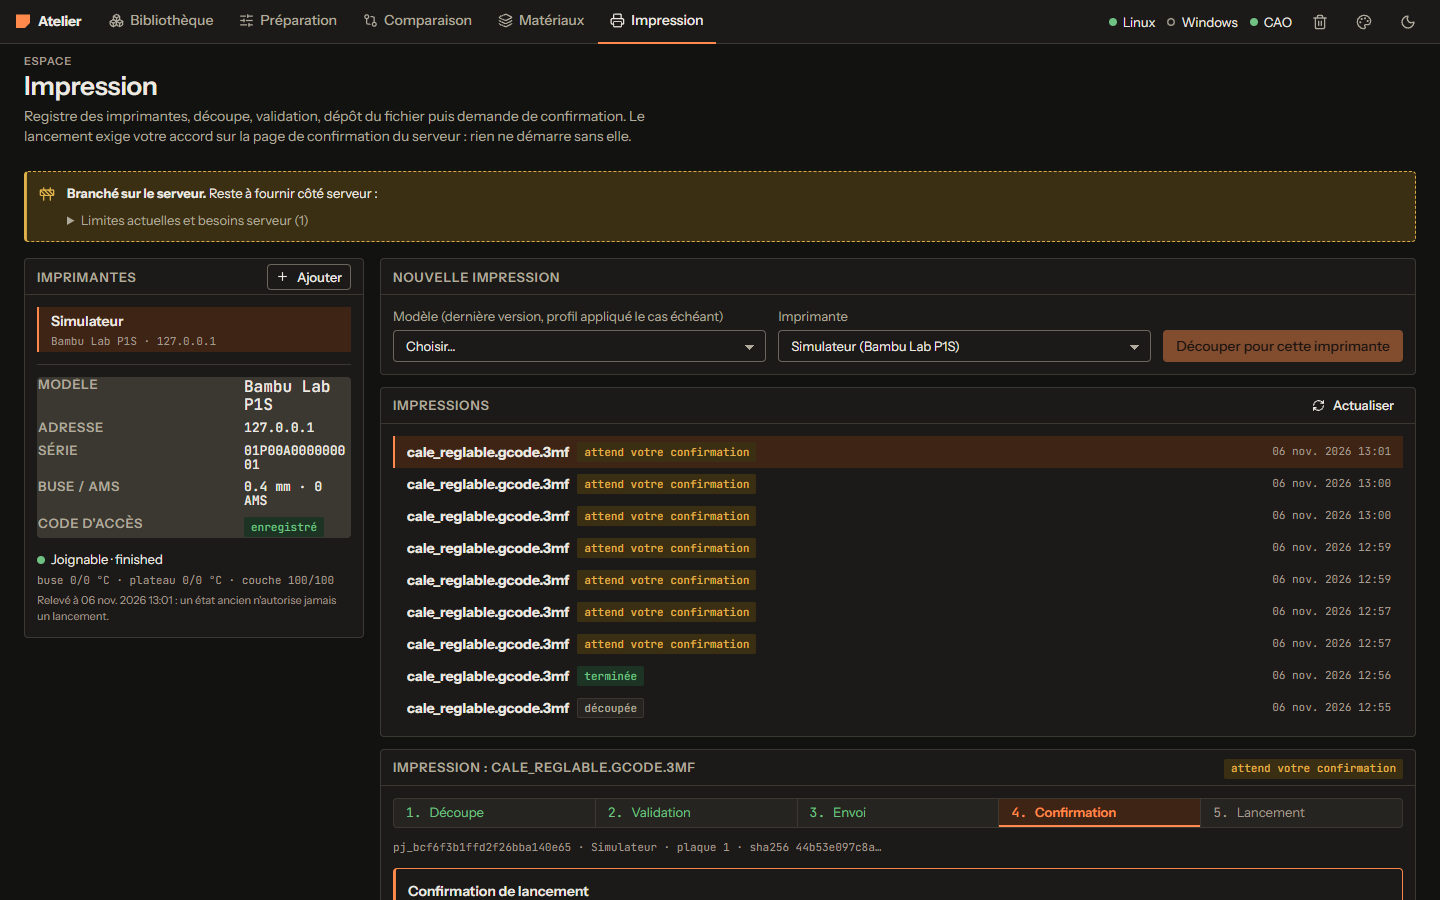
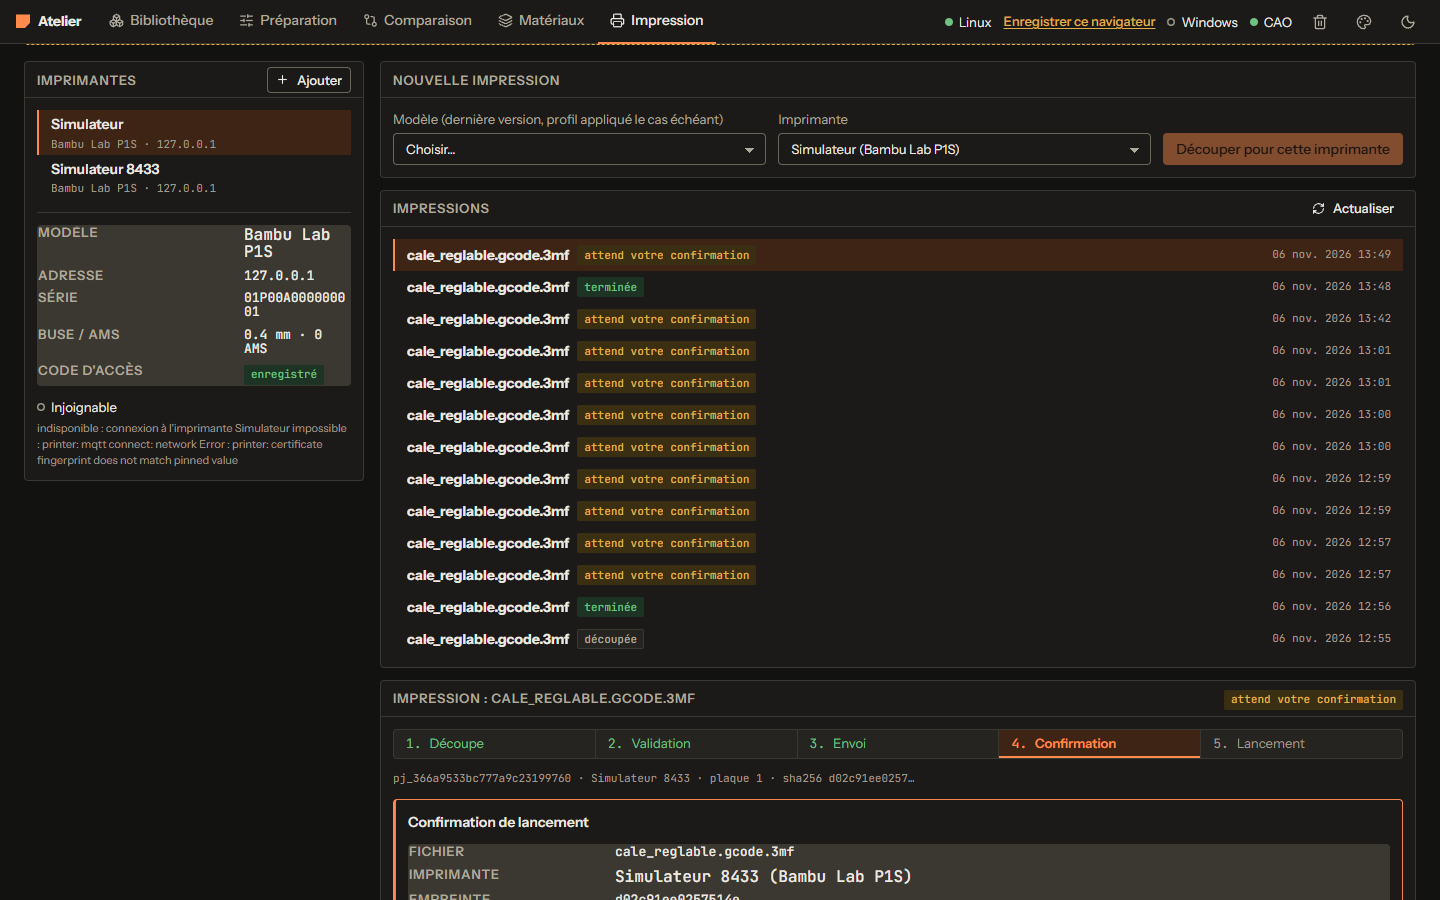
J3 : adaptation aux correctifs de securite (enrolement, epinglage cote serveur, stop_url)
Lien /enroll via GET /api/session, ajout d'imprimante sans empreinte, demande d'arret renvoyant
stop_url, e2e avec navigateur enregistre. Aucune approbation depuis l'interface ni la MCP App.

diff --git a/web/src/pages/Print.tsx b/web/src/pages/Print.tsx
@@ -2,8 +2,8 @@ import { useEffect, useMemo, useRef, useState } from 'react';
 import { ExternalLink, Plus, RefreshCw, ShieldCheck } from 'lucide-react';
 import { Button, EmptyState, Field, Input, List, Panel, Select, StatusDot, Tag, useToast } from '../components';
 import { api, assetUrl, describeError } from '../api/client';
-import { useAsync } from '../api/hooks';
-import type { ConfirmationView, FilamentAssignment, PrintJob, PrintState, PrinterView, StartOutput, UploadOutput, ValidationReport } from '../api/printTypes';
+import { useAsync, useConnection } from '../api/hooks';
+import type { CancelOutput, ConfirmationView, FilamentAssignment, PrintJob, PrintState, PrinterView, StartOutput, UploadOutput, ValidationReport } from '../api/printTypes';
 import { Async, Dialog, Notice, PendingBanner, fmtDate } from './common';
 import './print.css';
 
@@ -86,7 +86,7 @@ function PrinterCard({ p }: { p: PrinterView }) {
         <dt>Buse / AMS</dt><dd className="mono">{p.nozzle_mm} mm · {p.ams_units} AMS</dd>
         <dt>Code d'accès</dt><dd>{p.access_code_set ? <Tag tone="ok">enregistré</Tag> : <Tag tone="warn">à saisir</Tag>}</dd>
       </dl>
-      {!p.access_code_set && p.setup_url && <Notice title="Code d'accès non saisi" actions={<a className="btn btn-secondary btn-sm" href={assetUrl(p.setup_url)} target="_blank" rel="noreferrer"><ExternalLink size={13} /> Ouvrir la page de saisie</a>}>Le code se saisit sur une page locale du serveur ; il n'est jamais renvoyé ni affiché dans cette interface.</Notice>}
+      {!p.access_code_set && p.setup_url && <Notice title="Code d'accès non saisi" actions={<a className="btn btn-secondary btn-sm" href={assetUrl(p.setup_url)} target="_blank" rel="noreferrer"><ExternalLink size={13} /> Ouvrir la page de saisie</a>}>La page locale du serveur affiche l'empreinte du certificat présenté par l'imprimante et recueille le code d'accès ; il n'est jamais renvoyé ni affiché dans cette interface. Tant que rien n'est épinglé, aucune connexion n'est tentée (navigateur enregistré requis).</Notice>}
       <div className="prt-status" role="status">
         {st.error && !d ? <StatusDot status="offline" label="Statut indisponible" /> : !d ? <span className="hint">Lecture de l'état…</span> : (
           <>
@@ -103,13 +103,13 @@ function PrinterCard({ p }: { p: PrinterView }) {
 
 function AddPrinter({ open, onClose, onAdded }: { open: boolean; onClose: () => void; onAdded: (p: PrinterView) => void }) {
   const models = useAsync((s) => api.printerModels(s), []);
-  const [f, setF] = useState({ name: '', model_id: '', host: '', serial: '', nozzle: '0.4', ams: '0', pin: '' });
+  const [f, setF] = useState({ name: '', model_id: '', host: '', serial: '', nozzle: '0.4', ams: '0' });
   const [err, setErr] = useState<string>();
   const [busy, setBusy] = useState(false);
   const ok = f.name.trim() && f.model_id && f.host.trim() && f.serial.trim();
   const submit = async () => {
     setBusy(true); setErr(undefined);
-    try { onAdded(await api.addPrinter({ name: f.name.trim(), model_id: f.model_id, host: f.host.trim(), serial: f.serial.trim(), nozzle_mm: Number(f.nozzle) || undefined, ams_units: Number(f.ams) || 0, pinned_sha256: f.pin.trim() || undefined })); }
+    try { onAdded(await api.addPrinter({ name: f.name.trim(), model_id: f.model_id, host: f.host.trim(), serial: f.serial.trim(), nozzle_mm: Number(f.nozzle) || undefined, ams_units: Number(f.ams) || 0 })); }
     catch (e) { setErr(describeError(e)); } finally { setBusy(false); }
   };
   return (
@@ -121,9 +121,7 @@ function AddPrinter({ open, onClose, onAdded }: { open: boolean; onClose: () => 
       <Field label="Numéro de série"><Input value={f.serial} onChange={(e) => setF({ ...f, serial: e.target.value })} spellCheck={false} /></Field>
       <Field label="Buse installée (mm)"><Input value={f.nozzle} onChange={(e) => setF({ ...f, nozzle: e.target.value })} inputMode="decimal" /></Field>
       <Field label="Nombre d'AMS raccordés"><Select value={f.ams} onChange={(e) => setF({ ...f, ams: e.target.value })} options={[0, 1, 2, 3, 4].map((n) => ({ value: String(n), label: String(n) }))} /></Field>
-      <Field label="Empreinte SHA-256 du certificat de l'imprimante (relevée hors bande)"><Input value={f.pin} onChange={(e) => setF({ ...f, pin: e.target.value })} spellCheck={false} placeholder="64 caractères hexadécimaux" /></Field>
-      <p className="hint" style={{ margin: 0 }}>Sans empreinte, le service refuse de se connecter : la vérification du certificat n'est jamais désactivée silencieusement.</p>
-      <p className="hint" style={{ margin: 0 }}>Le code d'accès LAN n'est pas demandé ici : après l'ajout, une page locale du serveur le recueille.</p>
+      <p className="hint" style={{ margin: 0 }}>L'adresse doit être privée (192.168.x.x, 10.x, 172.16-31.x, lien local ou nom .local). Le certificat de l'imprimante est épinglé par le serveur sur la page locale de saisie, où vous confirmez son empreinte avec le code d'accès LAN, qui n'est pas demandé ici : après l'ajout, une page locale du serveur le recueille.</p>
     </Dialog>
   );
 }
@@ -162,6 +160,7 @@ function JobDetail({ job, printer, onChange }: { job: PrintJob; printer?: Printe
   const [upload, setUpload] = useState<UploadOutput>();
   const [conf, setConf] = useState<ConfirmationView>();
   const [start, setStart] = useState<StartOutput>();
+  const [stop, setStop] = useState<CancelOutput>();
   const [busy, setBusy] = useState<string | null>(null);
   const upKey = useRef(uuid()), startKey = useRef(uuid());
   const complete = assign.every((a) => a.material_id.trim() !== '');
@@ -235,6 +234,15 @@ function JobDetail({ job, printer, onChange }: { job: PrintJob; printer?: Printe
             {live.data?.note && <p className="hint">{live.data.note}</p>}
           </div>
         )}
+        {job.state === 'PRINTING' && (
+          <div className="prt-acts">
+            <Button variant="danger" disabled={busy !== null} onClick={() => wrap('stop', async () => setStop(await api.cancelPrint(job.id)))}>{busy === 'stop' ? 'Demande…' : "Demander l'arrêt…"}</Button>
+            <span className="hint">Cela ne stoppe rien : l'arrêt se valide sur une page dédiée.</span>
+          </div>
+        )}
+        {stop && (
+          <Notice tone={stop.outcome === 'refused' ? 'err' : 'info'} title={`Arrêt : ${stop.outcome}`} actions={stop.stop_url ? <a className="btn btn-danger btn-sm" href={assetUrl(stop.stop_url)} target="_blank" rel="noreferrer"><ExternalLink size={13} /> Ouvrir la page d'arrêt</a> : undefined}>{stop.note}</Notice>
+        )}
         {job.state === 'START_UNKNOWN' && <Notice tone="err" title="Lancement incertain : ne pas relancer">Le service ne sait pas si l'imprimante a démarré. Vérifiez sur la machine, puis faites réconcilier par l'assistant (outil <span className="mono">reconcile_print</span>) : l'interface ne relance jamais.</Notice>}
         {job.state === 'COMPLETED' && <Notice tone="info" title="Impression terminée">Enregistrez le résultat réel (retour d'expérience) pour nourrir la mémoire des essais.</Notice>}
         {job.next && !['VALIDATED', 'UPLOADED', 'AWAITING_PRINT_CONFIRMATION'].includes(job.state) && !['COMPLETED', 'FAILED', 'CANCELLED'].includes(job.state) && <p className="hint" style={{ margin: 0 }}>Étape suivante : {job.next}</p>}
@@ -263,6 +271,7 @@ function Report({ r }: { r: ValidationReport }) {
  */
 function ConfirmBox({ c, onStart, starting }: { c: ConfirmationView; onStart: () => void; starting: boolean }) {
   const b = c.binding;
+  const conn = useConnection();
   return (
     <div className="prt-confirm">
       <h3>Confirmation de lancement</h3>
@@ -278,6 +287,7 @@ function ConfirmBox({ c, onStart, starting }: { c: ConfirmationView; onStart: ()
         <>
           <p style={{ margin: 0 }}>{c.instructions}</p>
           <a className="btn btn-primary" href={assetUrl(c.confirm_url)} target="_blank" rel="noreferrer"><ExternalLink size={14} /> Ouvrir la page de confirmation</a>
+          {conn.browserEnrolled === false && <Notice title="Ce navigateur n'est pas enregistré" actions={<a className="btn btn-secondary btn-sm" href="/enroll" target="_blank" rel="noreferrer">Enregistrer ce navigateur</a>}>La page de confirmation exige un navigateur enregistré : lancez <span className="mono">bambud enroll</span> sur la machine du service, puis saisissez le code sur /enroll.</Notice>}
           <p className="hint" style={{ margin: 0 }} role="status"><span className="spinner" aria-hidden /> En attente de votre accord sur cette page (vérification toutes les 2,5 s)…</p>
         </>
       ) : (

diff --git a/web/src/api/client.ts b/web/src/api/client.ts
@@ -2,7 +2,7 @@ import type {
   ApplyResult, Capabilities, CollectionInfo, DuplicatesResult, Health, ImportInput, ImportStarted, Job, ModelDetails,
   OpPreview, Operation, RestoreResult, ScanReport, SearchParams, SearchResult,
 } from './types';
-import type { AddPrinterInput, AgentStatus, ConfirmationView, FilamentAssignment, PrintJob, PrintStatus, PrinterModel, PrinterStatus, PrinterView, StartOutput, UploadOutput, ValidationReport } from './printTypes';
+import type { CancelOutput, AddPrinterInput, AgentStatus, ConfirmationView, FilamentAssignment, PrintJob, PrintStatus, PrinterModel, PrinterStatus, PrinterView, StartOutput, UploadOutput, ValidationReport } from './printTypes';
 import type { ApplyOutput, CompareOutput, CreateExperimentInput, Experiment, Goal, GoalCriteriaCatalog, GoalInput } from './goalTypes';
 
 /**
@@ -98,6 +98,8 @@ export const api = {
   confirmation: (id: string, signal?: AbortSignal) => request<ConfirmationView>('GET', `/api/confirmations/${encodeURIComponent(id)}`, undefined, signal),
   /** Ne part que si l'humain a approuvé la confirmation sur la page /confirm/{id} : le serveur refuse sinon. */
   startPrint: (b: { print_job_id: string; confirmation_id: string; idempotency_key: string }) => request<StartOutput>('POST', '/api/print-jobs/start', b),
+  /** Impression en cours : ne stoppe RIEN, renvoie stop_url (page /stop/{id} à valider par un humain en navigateur enregistré). */
+  cancelPrint: (id: string) => request<CancelOutput>('POST', `/api/print-jobs/${encodeURIComponent(id)}/cancel`),
   agents: (signal?: AbortSignal) => request<{ agents: AgentStatus[] }>('GET', '/api/agents', undefined, signal),
   /** Télécharge le GLB d'aperçu (URL signée de la fiche). */
   async glb(signedUrl: string, signal?: AbortSignal): Promise<ArrayBuffer> {

diff --git a/web/src/api/printTypes.ts b/web/src/api/printTypes.ts
@@ -8,7 +8,7 @@ export interface PrinterView {
   id: string; model_id: string; model_name: string; name: string; host: string; serial: string; firmware?: string; nozzle_mm: number; ams_units: number;
   access_code_set: boolean; setup_url?: string; pinned_sha256?: string; insecure_reason?: string; allow_start_from_finish?: boolean; created_at: string;
 }
-export interface AddPrinterInput { name: string; model_id: string; host: string; serial: string; nozzle_mm?: number; ams_units?: number; pinned_sha256?: string }
+export interface AddPrinterInput { name: string; model_id: string; host: string; serial: string; nozzle_mm?: number; ams_units?: number }
 export interface PrinterStatus {
   printer_id: string; reachable: boolean; error?: string; state: string; gcode_state?: string; progress_percent: number; layer: number; total_layers: number;
   remaining_minutes: number; temps: { nozzle: number; nozzle_target: number; bed: number; bed_target: number; chamber: number }; print_error: number; hms_count: number;
@@ -36,3 +36,4 @@ export interface AgentStatus {
   id: string; name: string; online: boolean; last_seen?: string; agent_version?: string; studio_installed: boolean; studio_running: boolean; studio_version?: string;
   local_slicer: boolean; shared_folders?: string[]; cad?: string[]; tasks?: string[];
 }
+export interface CancelOutput { print_job_id: string; outcome: 'cancelled' | 'stop_requested' | 'stopped' | 'refused'; state: PrintState; stop_url?: string; stop_expires_at?: string; question?: string; note: string; job: PrintJob }

diff --git a/web/src/api/pending.ts b/web/src/api/pending.ts
@@ -54,8 +54,8 @@ export const PENDING: PendingNeed[] = [
   },
   {
     id: 'print_cancel_reconcile', screen: 'Impression',
-    today: "L'interface suit, valide, envoie et demande la confirmation ; elle ne propose ni annulation d'une impression en cours ni réconciliation d'un lancement incertain.",
-    needs: "Écrans pour POST /api/print-jobs/{id}/cancel (une impression en cours exige un stop_confirmation_id approuvé par l'humain, donc une page /confirm dédiée à l'arrêt) et POST /api/print-jobs/{id}/reconcile ; aujourd'hui seulement via les outils MCP cancel_print et reconcile_print.",
+    today: "Impression en cours : la demande d'arrêt renvoie stop_url (page /stop à valider en navigateur enregistré) ; réconciliation d'un lancement incertain absente de l'interface.",
+    needs: "Écran pour POST /api/print-jobs/{id}/reconcile (aujourd'hui seulement l'outil MCP reconcile_print).",
     milestone: "impression (suite)",
   },
   {

diff --git a/docs/jalons/J3.md b/docs/jalons/J3.md
@@ -44,11 +44,12 @@ Bibliothèque, fiche avec viewer 3D réel, à 1440 et 800 px, thèmes clair et s
 
 ## Matériaux, Impression, agent Windows et confirmation (après fusion de l'agent Windows et de la chaîne d'impression)
 
-- **Impression** : registre (`/api/printers`, ajout avec empreinte de certificat obligatoire, code d'accès JAMAIS saisi dans l'interface : lien vers `/setup/printer/{id}`), état frais (`/status`, relu toutes les 5 s), nouvelle impression (`POST /api/print-jobs`), liste suivie, étapes Découpe, Validation, Envoi, Confirmation, Lancement, matières par filament (emplacement et libellé), rapport de validation, dépôt (`/validate`, `/upload`), demande de confirmation (`/api/print-jobs/{id}/confirmation`) puis **lien vers `/confirm/{id}`** (page serveur). Aucun bouton de lancement n'existe tant que `GET /api/confirmations/{id}` n'est pas `approved` (accord donné sur la page serveur) ; le serveur refuse de toute façon sans confirmation approuvée, liée et à usage unique. e2e : vérifie l'absence du bouton avant l'accord. START_UNKNOWN : aucun bouton de relance.
+- **Impression** : registre (`/api/printers`, ajout sans empreinte ni code : adresse privée exigée (`--allow-any-printer-host` pour le simulateur) ; le certificat est épinglé par le serveur et le code d'accès saisi sur `/setup/printer/{id}`, jamais dans l'interface), état frais (`/status`, relu toutes les 5 s), nouvelle impression (`POST /api/print-jobs`), liste suivie, étapes Découpe, Validation, Envoi, Confirmation, Lancement, matières par filament (emplacement et libellé), rapport de validation, dépôt (`/validate`, `/upload`), demande de confirmation (`/api/print-jobs/{id}/confirmation`) puis **lien vers `/confirm/{id}`** (page serveur). Aucun bouton de lancement n'existe tant que `GET /api/confirmations/{id}` n'est pas `approved` (accord donné sur la page serveur) ; le serveur refuse de toute façon sans confirmation approuvée, liée et à usage unique. e2e : vérifie l'absence du bouton avant l'accord. START_UNKNOWN : aucun bouton de relance.
 - **Matériaux** : modèles d'imprimantes réels (`/api/printer-models`, valeurs absentes affichées « inconnu ») et parc. **Fiches matériaux non exposées** (la base `internal/engineering` n'a pas de route HTTP) : noté dans l'écran et dans `pending.ts`, aucune valeur inventée.
-- **Agent Windows dans le shell** : pastille depuis `capabilities.agents` (nom, en ligne ou non, Bambu Studio installé ou ouvert). Lien « Enregistrer ce navigateur » vers `/enroll` si `GET /api/session` répond non enregistré (route à venir : sans réponse, rien n'est affiché ; une 404 console est attendue d'ici là).
+- **Agent Windows dans le shell** : pastille depuis `capabilities.agents` (nom, en ligne ou non, Bambu Studio installé ou ouvert). Lien « Enregistrer ce navigateur » vers `/enroll` si `GET /api/session` répond `enrolled:false` (code à usage unique de `bambud enroll`) ; rappelé dans la boîte de confirmation d'impression. Les pages `/setup`, `/confirm`, `/stop` et `/agents/pair` exigent ce cookie : l'API JSON ne peut ni approuver ni arrêter.
 - **MCP App : vue de confirmation** `ui://bambu/print-confirm.html`, liée à `request_print_confirmation` : **lecture seule** (fichier, imprimante, empreinte, plaque, matières, instruction du serveur, échéance), bouton qui ouvre `/confirm/{id}` par `app.openLink` (adresse affichée en repli), relecture de l'état par `get_print_confirmation_view`. Elle n'appelle jamais `confirm_print_from_app` ni `start_print` : l'accord ne se donne pas depuis l'iframe.
-- e2e contre le simulateur (`go run ./cmd/printer-sim`, `SIM_PIN=<empreinte affichée>`) : ajout, code saisi sur la page locale, état lu, découpe, validation, dépôt, confirmation sur la page serveur, lancement. Limites : annulation d'une impression en cours et réconciliation absentes de l'interface (`pending.ts`).
+- Arrêt d'une impression en cours : « Demander l'arrêt » appelle `POST /api/print-jobs/{id}/cancel`, qui ne stoppe rien et renvoie `stop_url` ; l'interface propose seulement d'ouvrir cette page (`/stop/{id}`).
+- e2e contre le simulateur (`ENROLL_CODE` de `bambud enroll`, `SIM_SERIAL`, `SIM_PIN` = empreinte à comparer ; le test enregistre un navigateur, saisit le code d'accès du simulateur sur la page locale) (`go run ./cmd/printer-sim`, `SIM_PIN=<empreinte affichée>`) : ajout, code saisi sur la page locale, état lu, découpe, validation, dépôt, confirmation sur la page serveur, lancement. Limites : annulation d'une impression en cours et réconciliation absentes de l'interface (`pending.ts`).
 
 ## Ce qui est simulé ou pas branché
 
